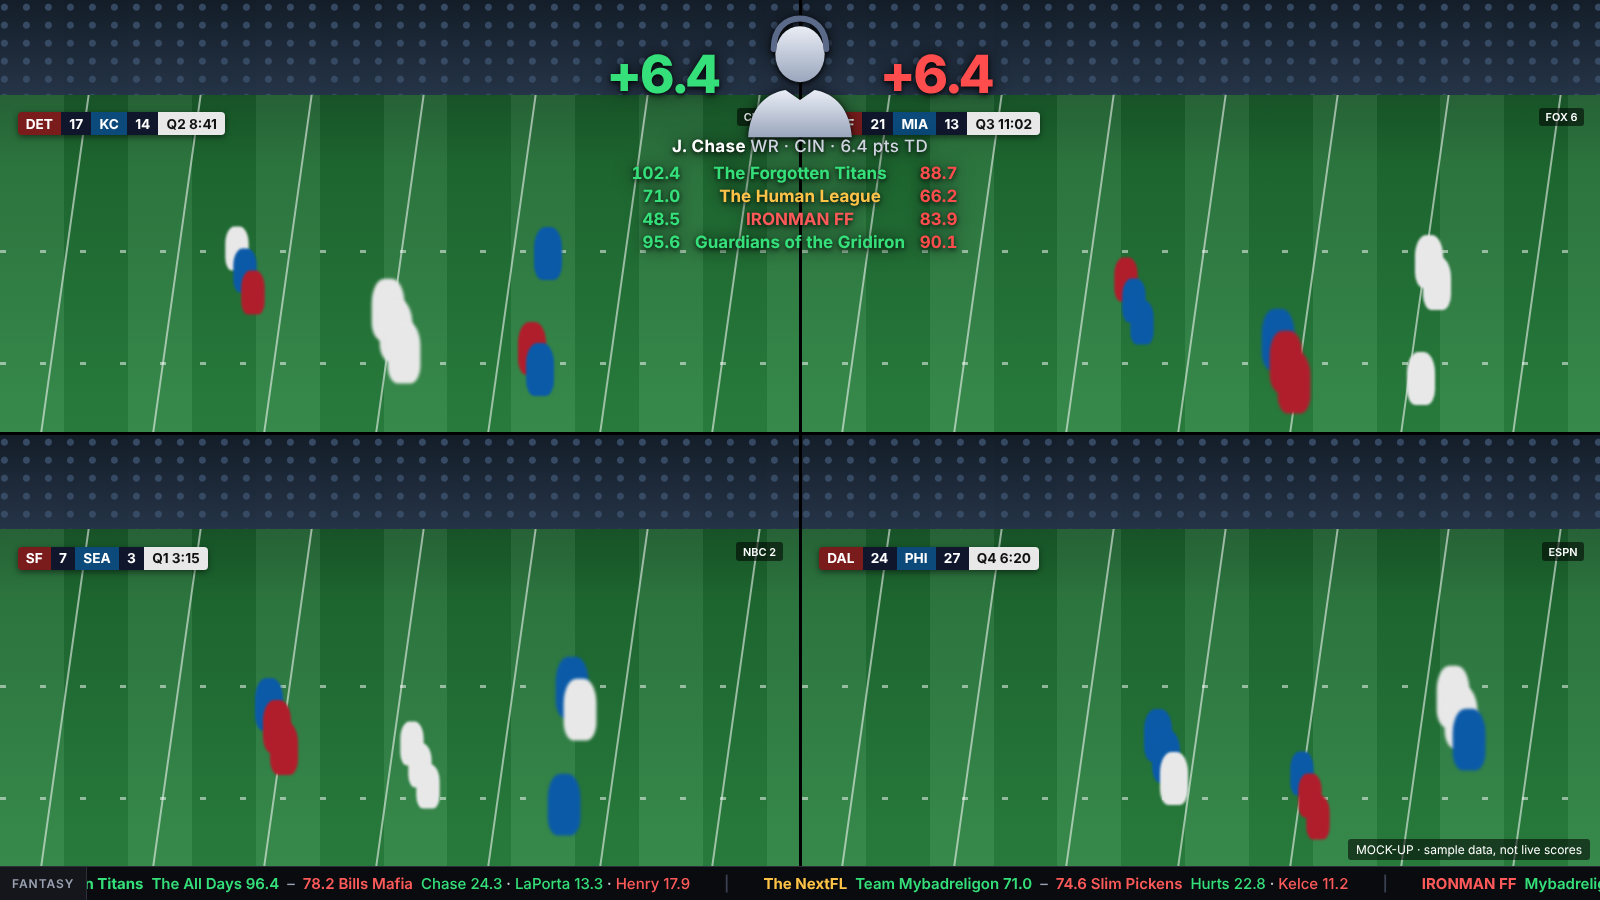
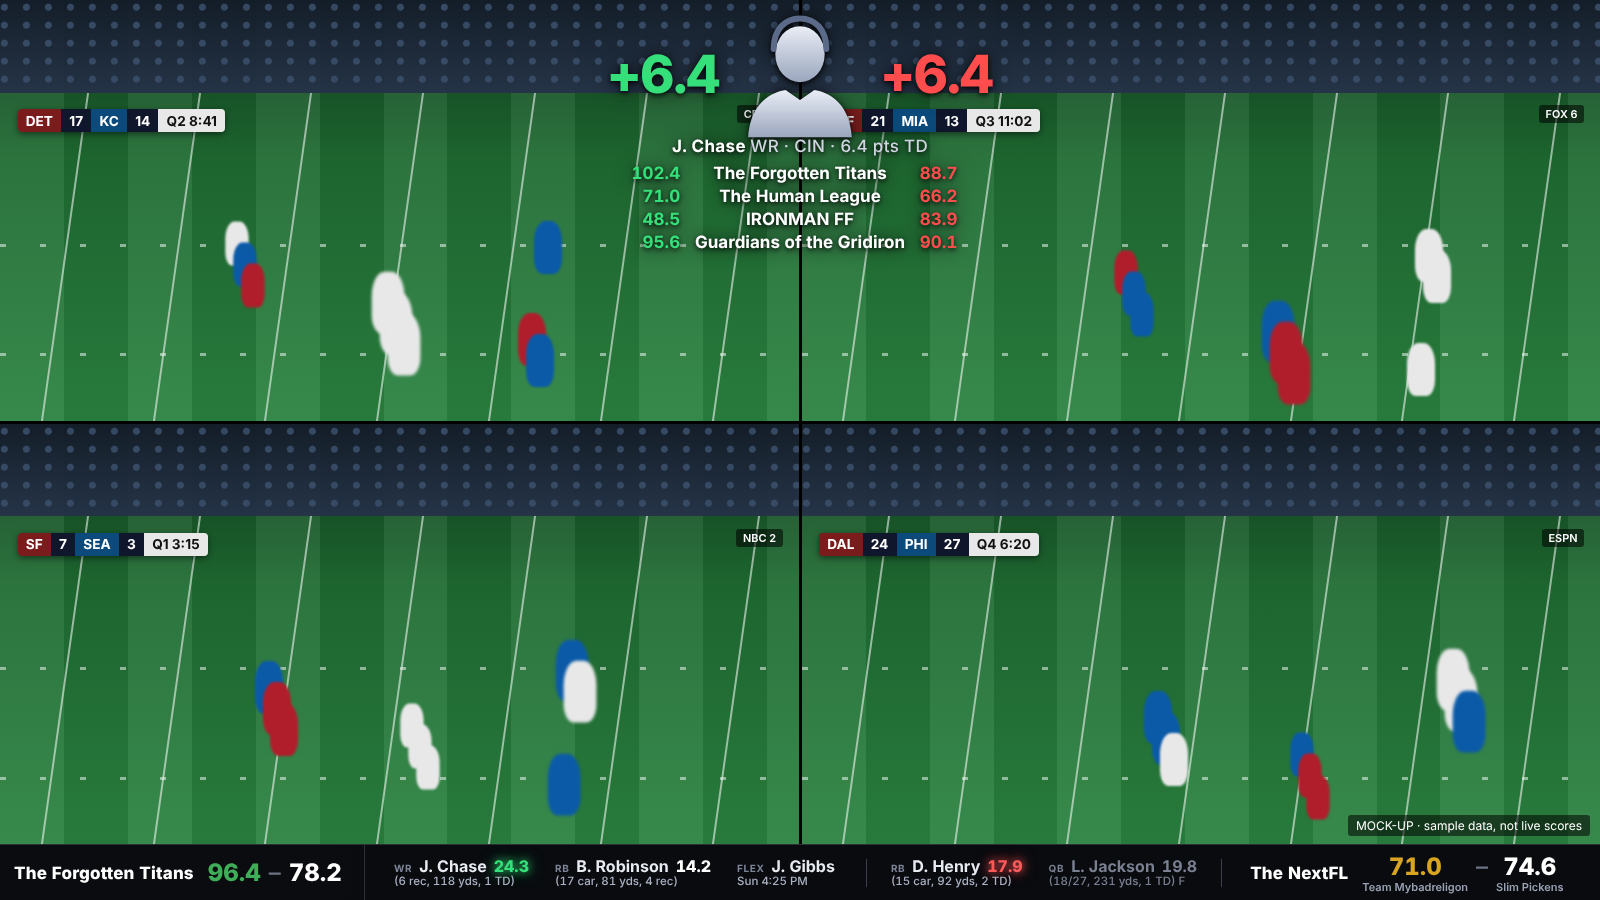
docs: update fantasy ticker mock-ups to new design [skip ci]
Claude-Session: https://claude.ai/code/session_01Lsah77R46uPbi1vGqn8c5Q

diff --git a/docs/img/fantasy-ticker-mock.html b/docs/img/fantasy-ticker-mock.html
@@ -2,7 +2,7 @@
 <style>
 *{box-sizing:border-box;margin:0;padding:0}
 html,body{width:1600px;height:900px;background:#000;overflow:hidden;font-family:"Segoe UI",Roboto,Helvetica,Arial,sans-serif;color:#fff}
-#grid{position:absolute;left:0;top:0;width:1600px;height:866px;display:grid;gap:3px;background:#000}
+#grid{position:absolute;left:0;top:0;width:1600px;height:844px;display:grid;gap:3px;background:#000}
 .tile{position:relative;overflow:hidden;background:#1d5c2b}
 /* a generic football broadcast: striped turf, yard lines, hash marks, a few blurred players, a scoreboard bug */
 .turf{position:absolute;inset:0;background:
@@ -17,13 +17,31 @@ html,body{width:1600px;height:900px;background:#000;overflow:hidden;font-family:
 .bug{position:absolute;left:2.2%;top:26%;display:flex;align-items:stretch;font-weight:700;font-size:var(--bug);border-radius:4px;overflow:hidden;box-shadow:0 2px 6px rgba(0,0,0,.5)}
 .bug div{padding:.25em .6em;background:#10162b}.bug .t1{background:#7a1c1c}.bug .t2{background:#0b4a7a}.bug .q{background:#e8e8e8;color:#111}
 .ch{position:absolute;right:2%;top:25%;font-size:calc(var(--bug)*.8);font-weight:600;background:rgba(0,0,0,.55);padding:.2em .6em;border-radius:3px}
-/* ticker */
-#ticker{position:absolute;left:0;right:0;bottom:0;height:34px;background:rgba(10,12,16,.94);border-top:1px solid #2b2f39;display:flex;align-items:center;white-space:nowrap;overflow:hidden;font-size:15px;font-weight:600}
-#ticker .tag{flex:none;height:100%;display:flex;align-items:center;padding:0 12px;background:#14161b;border-right:1px solid #2b2f39;color:#9aa1b2;letter-spacing:.08em;font-size:12px}
-#ticker .view{flex:1;overflow:hidden;height:100%;display:flex;align-items:center}#ticker .run{display:flex;align-items:center;gap:34px;padding-left:24px;transform:translateX(-120px)}
-.lg{display:flex;align-items:center;gap:8px}.lg b{font-weight:700}.me{color:#35e07a}.op{color:#ff5a5a}.dim{color:#9aa1b2;font-weight:500}.sep{color:#3a4050}
-.pp{font-weight:500;color:#cfd4e0}.pp i{font-style:normal;color:#35e07a}.pp u{text-decoration:none;color:#ff5a5a}
-.n-g{color:#35e07a}.n-a{color:#ffc447}.n-r{color:#ff5a5a}
+/* ticker (new design): 56px, pinned league block on the left, player items scroll behind it */
+#ticker{position:absolute;left:0;right:0;bottom:0;height:56px;background:rgba(10,12,16,.95);border-top:1px solid #2b2f39;overflow:hidden;white-space:nowrap;font-size:16px;font-weight:600;font-variant-numeric:tabular-nums}
+#ticker .pin{position:absolute;left:0;top:0;bottom:0;z-index:3;display:flex;align-items:center;gap:14px;padding:0 22px 0 14px;background:linear-gradient(90deg,#0a0c10 0,#0a0c10 92%,rgba(10,12,16,0));border-right:1px solid #2b2f39}
+#ticker .ln{font-size:17px;font-weight:800;color:#fff;letter-spacing:.01em}
+#ticker .sc{display:flex;align-items:center;gap:8px;font-size:24px;font-weight:800}
+#ticker .sc .d{color:#6b7385;font-weight:500}
+.c-g{color:#3FAE58}.c-a{color:#D9A521}.c-r{color:#D6533B}.w{color:#fff}
+#ticker .items{position:absolute;left:392px;top:0;bottom:0;display:flex;align-items:center;gap:22px}
+.it{display:flex;flex-direction:column;justify-content:center;line-height:1.15;padding:0 2px}
+.it .t{display:flex;gap:7px;align-items:baseline}
+.it .sl{font-size:10px;font-weight:700;color:#7c8497;letter-spacing:.06em}
+.it .nm{font-weight:700;color:#e8ebf2}
+.it .pt{font-weight:800;color:#fff}
+.it .st{font-size:11.5px;font-weight:500;color:#aab1c2}
+.it.fin *{color:#7a8091!important}.it.fin .pt{font-weight:700}
+.it.pre .pt{color:#aab1c2;font-weight:600}
+.it.up.me .pt{color:#35e07a;text-shadow:0 0 8px rgba(53,224,122,.95),0 0 16px rgba(53,224,122,.6)}
+.it.up.op .pt{color:#ff5a5a;text-shadow:0 0 8px rgba(255,90,90,.95),0 0 16px rgba(255,90,90,.6)}
+.grp{display:flex;align-items:center;gap:22px}.vs{width:1px;height:28px;background:#3a4050}
+.nxt{display:flex;align-items:center;gap:14px;margin-left:6px}
+.nxt .ln{font-size:17px;font-weight:800;color:#fff}
+.nxt .blk{display:flex;flex-direction:column;align-items:center}.nxt .tn{font-size:11px;font-weight:600;color:#9aa1b2;margin-top:-1px}
+.nxt .pair{display:flex;align-items:flex-start;gap:8px}.nxt .sd{display:flex;flex-direction:column;align-items:center}
+.nxt .sdn{font-size:24px;font-weight:800}.nxt .d{font-size:24px;color:#6b7385;font-weight:500}
+.fade{position:absolute;right:0;top:0;bottom:0;width:0}
 /* popup: no background, no outline - only a soft shadow so it stays readable on bright video */
 #pop{position:absolute;top:10px;left:50%;transform:translateX(-50%) scale(var(--ps,1));transform-origin:top center;width:640px;display:flex;flex-direction:column;align-items:center;
   filter:drop-shadow(0 2px 3px rgba(0,0,0,.85)) drop-shadow(0 0 10px rgba(0,0,0,.55))}
@@ -36,7 +54,7 @@ html,body{width:1600px;height:900px;background:#000;overflow:hidden;font-family:
 #pop .row{display:grid;grid-template-columns:1fr auto 1fr;gap:16px;align-items:baseline;font-size:20px;font-weight:700;font-variant-numeric:tabular-nums}
 #pop .row .a{text-align:right;color:#35e07a}#pop .row .c{text-align:center;min-width:250px}#pop .row .b{text-align:left;color:#ff4d4d}
 #pop .row .c small{display:block;font-size:11px;font-weight:600;color:#c9cedb;margin-top:-2px;letter-spacing:.06em;text-transform:uppercase}
-#cap{position:absolute;right:10px;bottom:40px;font-size:12px;color:#fff;background:rgba(0,0,0,.55);padding:3px 8px;border-radius:3px;z-index:9}
+#cap{position:absolute;right:10px;bottom:64px;font-size:12px;color:#fff;background:rgba(0,0,0,.55);padding:3px 8px;border-radius:3px;z-index:9}
 </style></head><body>
 <div id="grid"></div>
 <div id="pop"></div>
@@ -57,12 +75,21 @@ for(let i=0;i<cfg[2];i++){
  t.innerHTML=`<div class="turf"></div><div class="stands"></div>${lines}<div class="hash" style="top:58%"></div><div class="hash" style="top:84%"></div>${pl}
  <div class="bug"><div class="t1">${gm[0]}</div><div>${gm[3]}</div><div class="t2">${gm[1]}</div><div>${gm[4]}</div><div class="q">${gm[2]}</div></div><div class="ch">${names[i]}</div>`;
  g.appendChild(t)}
-document.getElementById('ticker').innerHTML=`<div class="tag">FANTASY</div><div class="view"><div class="run">
-<div class="lg"><b class="n-g">The Forgotten Titans</b><span class="me">The All Days 96.4</span><span class="dim">–</span><span class="op">78.2 Bills Mafia</span><span class="pp"><i>Chase 24.3</i> · <i>LaPorta 13.3</i> · <u>Henry 17.9</u></span></div><span class="sep">|</span>
-<div class="lg"><b class="n-a">The NextFL</b><span class="me">Team Mybadreligon 71.0</span><span class="dim">–</span><span class="op">74.6 Slim Pickens</span><span class="pp"><i>Hurts 22.8</i> · <u>Kelce 11.2</u></span></div><span class="sep">|</span>
-<div class="lg"><b class="n-r">IRONMAN FF</b><span class="me">Mybadreligon 48.5</span><span class="dim">–</span><span class="op">83.9 Gridiron Gang</span><span class="pp"><i>Barkley 9.4</i> · <u>Jefferson 28.1</u></span></div><span class="sep">|</span>
-<div class="lg"><b class="n-g">The Human League</b><span class="me">Mybadreligon 102.6</span><span class="dim">–</span><span class="op">65.3 Waiver Wolves</span><span class="pp"><i>Allen 31.0</i> · <i>Nacua 19.6</i></span></div><span class="sep">|</span>
-<div class="lg"><b class="n-g">Guardians of the Gridiron</b><span class="me">Mybadreligon 88.1</span><span class="dim">–</span><span class="op">80.2 Dynasty Dads</span></div></div></div>`;
+const it=(cls,sl,nm,pt,st)=>`<div class="it ${cls}"><div class="t"><span class="sl">${sl}</span><span class="nm">${nm}</span><span class="pt">${pt}</span></div><div class="st">${st}</div></div>`;
+document.getElementById('ticker').innerHTML=`
+<div class="pin"><span class="ln">The Forgotten Titans</span><span class="sc"><span class="c-g">96.4</span><span class="d">–</span><span class="w">78.2</span></span></div>
+<div class="items">
+ <div class="grp">
+  ${it('up me','WR','J. Chase','24.3','(6 rec, 118 yds, 1 TD)')}
+  ${it('','RB','B. Robinson','14.2','(17 car, 81 yds, 4 rec)')}
+  ${it('pre','FLEX','J. Gibbs','','Sun 4:25 PM')}
+ </div><div class="vs"></div>
+ <div class="grp">
+  ${it('up op','RB','D. Henry','17.9','(15 car, 92 yds, 2 TD)')}
+  ${it('fin','QB','L. Jackson','19.8','(18/27, 231 yds, 1 TD) F')}
+ </div><div class="vs"></div>
+ <div class="nxt"><span class="ln">The NextFL</span><div class="pair"><div class="sd"><span class="sdn c-a">71.0</span><span class="tn">Team Mybadreligon</span></div><span class="d">–</span><div class="sd"><span class="sdn w">74.6</span><span class="tn">Slim Pickens</span></div></div></div>
+</div>`;
 const rows=[['n-g','The Forgotten Titans','102.4','88.7','Q2 8:41'],['n-a','The Human League','71.0','66.2',''],['n-r','IRONMAN FF','48.5','83.9',''],['n-g','Guardians of the Gridiron','95.6','90.1','']];
 const SIL=`<svg class="ph" viewBox="0 0 150 150"><defs><linearGradient id="sg" x1="0" y1="0" x2="0" y2="1"><stop offset="0" stop-color="#e9edf5"/><stop offset="1" stop-color="#9aa6bd"/></linearGradient></defs>
 <ellipse cx="75" cy="52" rx="29" ry="33" fill="url(#sg)"/><path d="M14 150c2-34 20-52 44-56l17 12 17-12c24 4 42 22 44 56z" fill="url(#sg)"/><path d="M44 46c0-24 14-36 31-36s31 12 31 36" fill="none" stroke="#5c6a8a" stroke-width="7" stroke-linecap="round"/></svg>`;

diff --git a/docs/fantasy-ticker-scope.md b/docs/fantasy-ticker-scope.md
@@ -72,5 +72,5 @@ Release plan: 0.10.0 = connection + ticker (minor), 0.11.0 = pop-ups (minor). No
 - **Admins only** for ticker and pop-ups. **Starters only**, both teams. Negative changes: no pop-up. **Default minimum for pop-ups: 3.0 points** (big plays only).
 - **Ticker design replaced.** Per league: league name, my team name + score (coloured vs projection), opponent score + team name (white); team names sit under their scores. The league name pins to the left edge, then the score pair pins just right of it with the ticker's right edge at the opponent score; names scroll off. Player items slide in behind the pinned block until the next league pushes it off. Then each team's full starting lineup in roster-slot order: pre-game shows game time; live shows name, points and counting stats in brackets; final shows score and stats in light grey. A player whose points rose since his last appearance on screen for that side (mine or opponent, across all leagues) shows green (mine) or red (opponent) with a glow and rolls up, with the team total rolling up too.
 - **Needs from Fantasy Manager** (added to the handoff): roster slot and order, team names, kickoff time, game state, per-player counting-stat line, and per-player points. Display tracking of "last seen score" lives in the page, per device.
-- **Build impact:** the ticker becomes a pinned-header marquee with per-item state (more work than a plain scroll; roughly the size of the pop-up work). Mock-ups in docs/img/ show the old ticker; a new ticker mock-up can be made before building.
+- **Build impact:** the ticker becomes a pinned-header marquee with per-item state (more work than a plain scroll; roughly the size of the pop-up work). Mock-ups in docs/img/ updated 2026-11-08 to this design.
 - Still open: league-name colour (assumed neutral now), the colour rule, address and token. Fantasy Manager's API doc from James is awaited.
